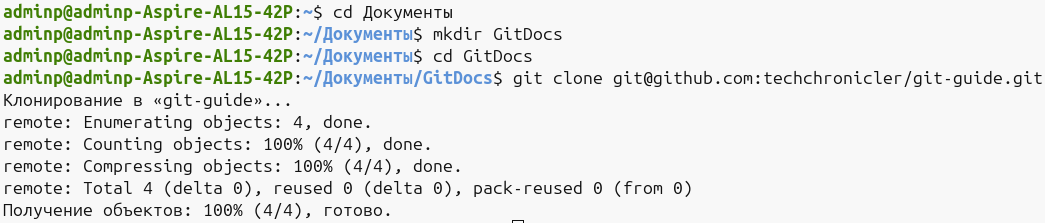
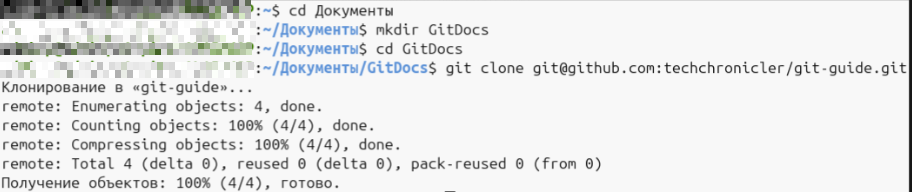
добавлены изменения

Changed region(s): [[0.0, 0.0, 1.0, 1.0], [0.0, 0.7188, 0.6754, 1.0], [0.4912, 0.9688, 0.5219, 1.0]]

diff --git a/2. Создание и настройка репозитория.md b/2. Создание и настройка репозитория.md
@@ -9,14 +9,15 @@
 ![](../screenshots/20260909145424.png)
 
 3. Появится страница создания нового репозитория. Нужно заполнить следующие поля:
-- «Repository name» — название репозитория;
-- «Description» — описание репозитория;
-- «Choose visibility» — видимость репозитория. В выпадающем меню выбрать Public или Private. Public (публичный) — любой пользователь сможет зайти, прочитать и использовать файлы в своих целях. Private (приватный) — репозиторий виден только создателю и тем, с кем он поделился доступом;
-- «Add README» — это файл с основной информацией о проекте, который автоматически открывается при заходе на страницу репозитория. В README обычно пишут: краткое описание проекта, оглавление или список разделов гайда, инструкции по установке или началу работы, ссылки на дополнительные ресурсы. Нужно переключить тумблер в положение «On»;
-- «Add .gitignore» — файл, который говорит Git, какие файлы и папки не нужно отслеживать (например, временные файлы, кэш, логи). Для репозитория с текстовыми инструкциями (без кода на конкретных языках) можно оставить «No .gitignore»;
-- «Add license» (Лицензия) — лицензия объясняет, как другие могут использовать контент автора. Для обучающего материала можно рассмотреть «MIT License» и «Creative Commons Attribution (CC BY)». В первом случае лицензия разрешает использовать, изменять и распространять материал при условии указания автора. Во втором случае хорошо подходит для документации и гайдов: разрешает любые действия при указании авторства. Можно пока оставить «No license» и позже отредактировать.
+- **«Repository name»** — название репозитория;
+- **«Description»** — описание репозитория;
+- **«Choose visibility»** — видимость репозитория. В выпадающем меню выбрать Public или Private. Public (публичный) — любой пользователь сможет зайти, прочитать и использовать файлы в своих целях. Private (приватный) — репозиторий виден только создателю и тем, с кем он поделился доступом;
+- **«Add README»** — это файл с основной информацией о проекте, который автоматически открывается при заходе на страницу репозитория. В README обычно пишут: краткое описание проекта, оглавление или список разделов гайда, инструкции по установке или началу работы, ссылки на дополнительные ресурсы. Нужно переключить тумблер в положение «On»;
+- **«Add .gitignore»** — файл, который говорит Git, какие файлы и папки не нужно отслеживать (например, временные файлы, кэш, логи). Для репозитория с текстовыми инструкциями (без кода на конкретных языках) можно оставить «No .gitignore»;
+- **«Add license»** — лицензия объясняет, как другие могут использовать контент автора. Для обучающего материала можно рассмотреть «MIT License» и «Creative Commons Attribution (CC BY)». В первом случае лицензия разрешает использовать, изменять и распространять материал при условии указания автора. Во втором случае хорошо подходит для документации и гайдов: разрешает любые действия при указании авторства. Можно пока оставить «No license» и позже отредактировать.
 
 ![](../screenshots/20260909151812.png)
+
 4. Когда все поля заполнены, нужно нажать «Create repository».
 
 ![](../screenshots/20260909153437.png)
@@ -25,4 +26,4 @@
 
 ![](../screenshots/20260909153555.png)
 
-Далее можно перейти к [клонированию репозитория](3.%20Работа%20с%20Git.md) и загрузке в него файлов.
+Далее можно перейти к [клонированию репозитория](3.%20Работа%20с%20Git.md) и отправки в него файлов.

diff --git a/3. Работа с Git.md b/3. Работа с Git.md
@@ -4,7 +4,6 @@
 
 ![](../screenshots/20260909172221.png)
 
-
 2. Открыть терминал сочетанием клавиш Ctrl + Alt + T и выбрать папку, в которую нужно клонировать репозиторий, или создать папку, например:
 - `cd Документы` — перейти в папку «Документы»;
 - `mkdir <название-папки>` — создать папку с любым названием;
@@ -20,7 +19,17 @@
 
 Теперь можно закрыть терминал и начать работу в созданной папке. Добавить туда необходимые файлы и картинки.
 
-6. Когда работа завершена, нужно добавить изменённые файлы в репозиторий. Открыть терминал в папке, где производились изменения, и ввести команду `git add .`
+6. Когда работа завершена, нужно добавить изменённые файлы в репозиторий. Открыть терминал в папке, где производились изменения/
+
+![](../screenshots/20260922152620.png)
+
+6. В терминале ввести команду `git add .`
 7. Ввести комментарий о том, что было сделано, с помощью команды: `git commit -m "<место для комментария>"`.
 8. Загрузить все изменения в репозиторий командой: `git push`.
 9. Чтобы убедиться, что все изменения были успешно загружены, можно использовать команду: `git status`.
+
+![](../screenshots/20260922153013.png)
+
+10. Добавленные файлы отобразятся в репозитории GitHub.
+
+![](../screenshots/20260922153145.png)
